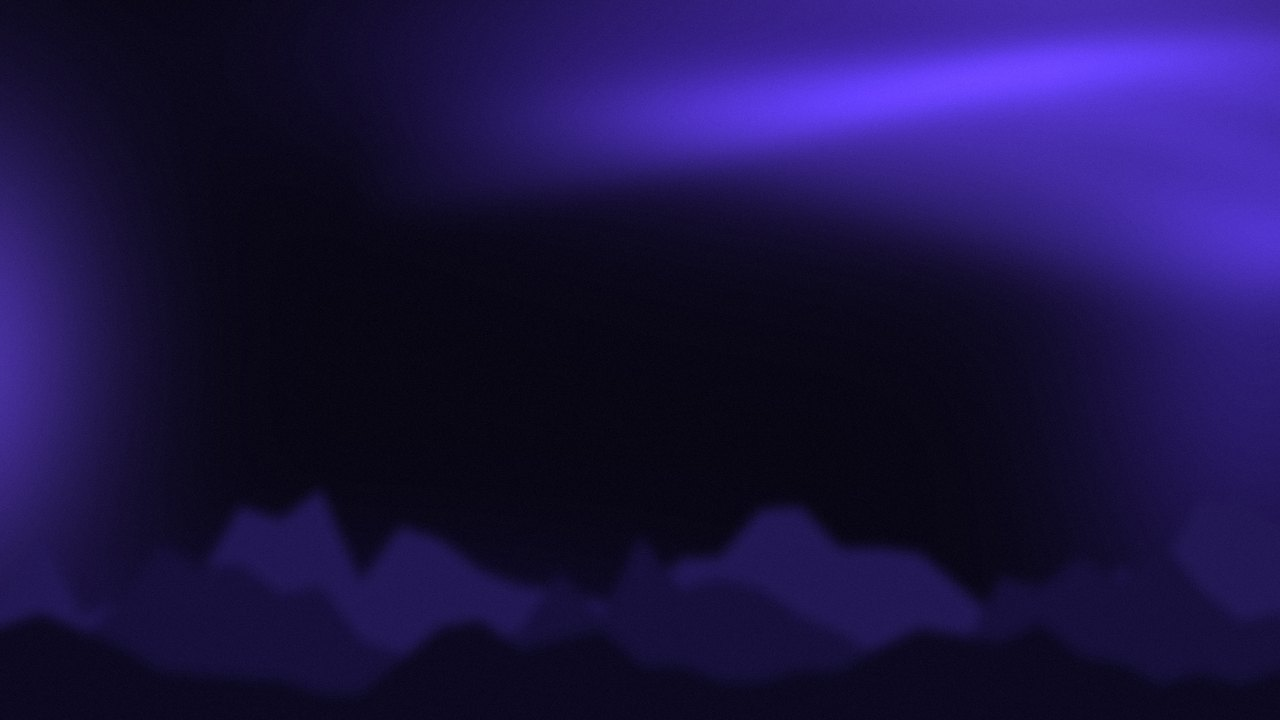
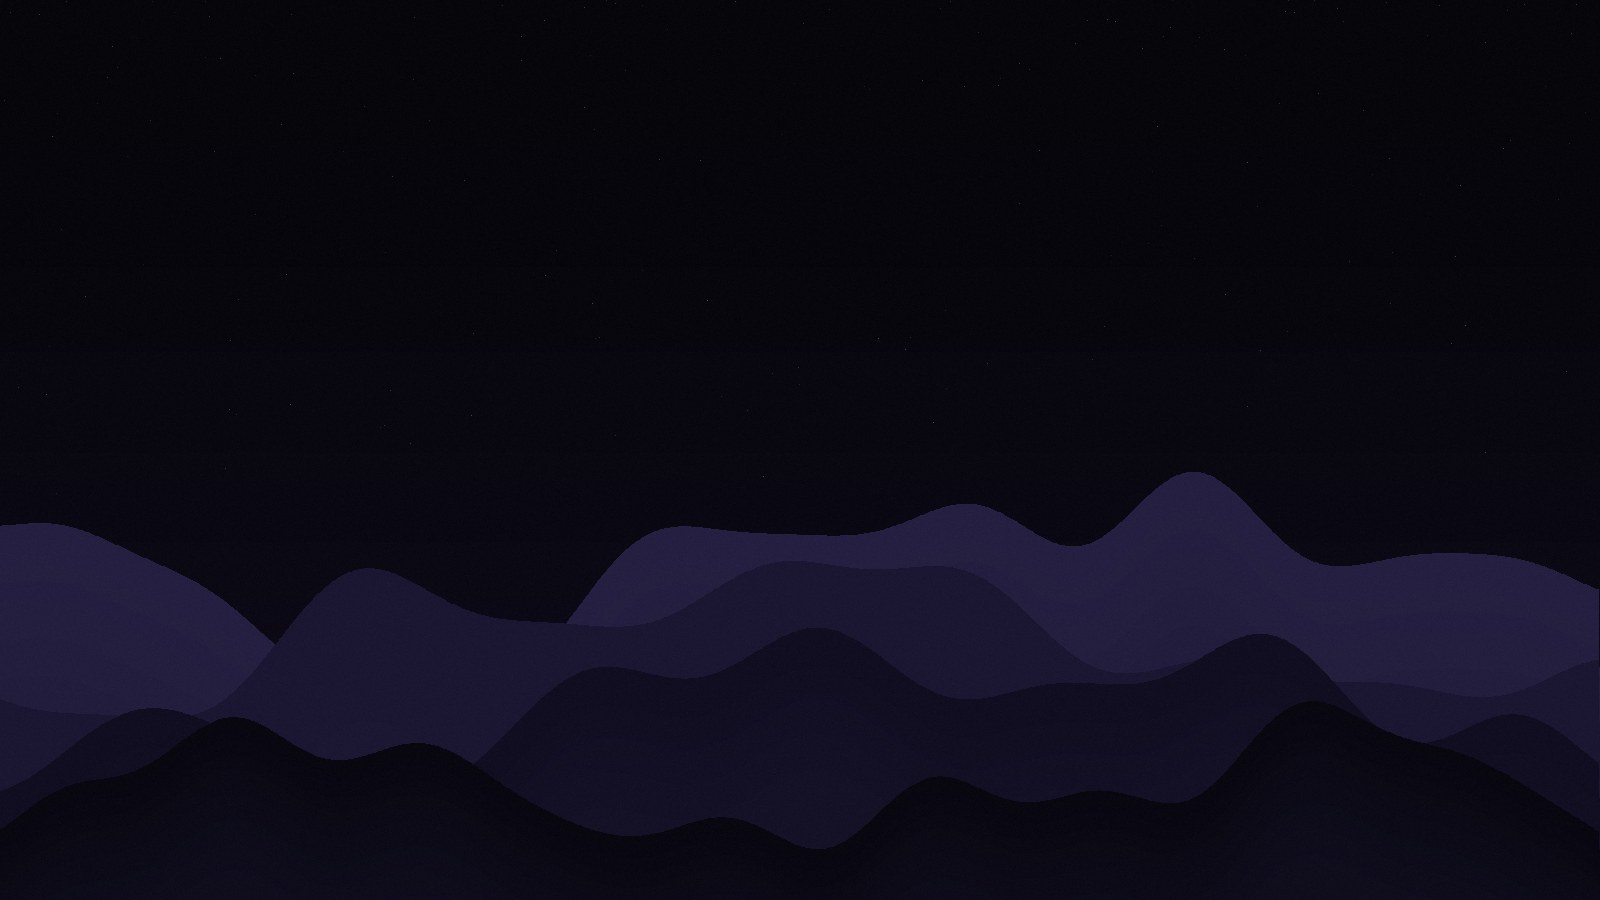
Calm dark theme: mountain backdrop, hairlines, lavender accent, light animations, pretty/raw view, environments in sidebar

diff --git a/src/main.rs b/src/main.rs
@@ -457,19 +457,25 @@ fn gui(dir: PathBuf, t0: Instant) -> Result<(), Box<dyn std::error::Error>> {
                     let end = (0..=1_000_000).rev().find(|&i| body.is_char_boundary(i)).unwrap_or(0);
                     body.truncate(end);
                 }
-                (r.status, format!("{} {}", r.status, r.reason), format!("{} ms", r.ms), run::size(r.body.len()), body, r.headers, cut)
+                let mut raw = String::from_utf8_lossy(&r.body).into_owned();
+                if raw.len() > 1_000_000 {
+                    let end = (0..=1_000_000).rev().find(|&i| raw.is_char_boundary(i)).unwrap_or(0);
+                    raw.truncate(end);
+                }
+                (r.status, format!("{} {}", r.status, r.reason), format!("{} ms", r.ms), run::size(r.body.len()), body, raw, r.headers, cut)
             });
             let _ = slint::invoke_from_event_loop(move || {
                 let Some(app) = w.upgrade() else { return };
                 app.set_busy(false);
                 match out {
-                    Ok((code, status, ms, size, body, headers, cut)) => {
+                    Ok((code, status, ms, size, body, raw, headers, cut)) => {
                         app.set_status(status.into());
                         app.set_status_class(if code >= 400 { 4 } else if code >= 300 { 3 } else { 2 });
                         app.set_duration(ms.into());
                         app.set_size(size.into());
-                        app.set_resp_lines(ModelRc::new(VecModel::from(lines(&body))));
+                        app.set_resp_lines(ModelRc::new(VecModel::from(lines(if app.get_resp_view() == 1 { &raw } else { &body }))));
                         app.set_resp_text(body.into());
+                        app.set_resp_raw(raw.into());
                         app.set_resp_headers(kv_model(&headers));
                         if cut {
                             app.set_note(t("Showing the first 1 MB", "Zeigt das erste MB").into());
@@ -481,12 +487,21 @@ fn gui(dir: PathBuf, t0: Instant) -> Result<(), Box<dyn std::error::Error>> {
                         app.set_duration(SharedString::new());
                         app.set_size(SharedString::new());
                         app.set_resp_lines(ModelRc::new(VecModel::from(lines(&e))));
+                        app.set_resp_raw(e.as_str().into());
                         app.set_resp_text(e.into());
                         app.set_resp_headers(kv_model(&[]));
                     }
                 }
             });
         });
+    });
+
+    let w = app.as_weak();
+    app.on_view_changed(move || {
+        if let Some(app) = w.upgrade() {
+            let text = if app.get_resp_view() == 1 { app.get_resp_raw() } else { app.get_resp_text() };
+            app.set_resp_lines(ModelRc::new(VecModel::from(lines(&text))));
+        }
     });
 
     app.show()?;
